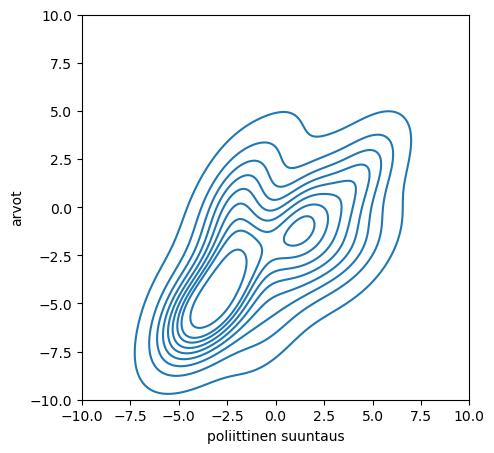
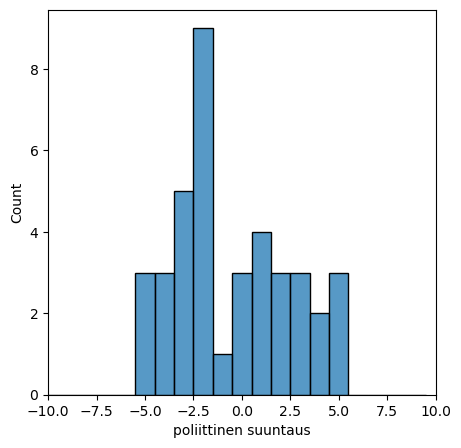
HS fix 3

Changed region(s): [[0.0607, 0.0, 1.0, 1.0], [0.0, 0.4062, 0.0607, 0.5]]

diff --git a/_posts/2025-6-30-hs-pääkirjoitukset.md b/_posts/2025-6-30-hs-pääkirjoitukset.md
@@ -9,7 +9,9 @@ tags:
   - arvot
 ---
 
-Helsingin Sanomat perustettiin nuorsuomalaisen Päivälehden jatkajaksi. Se aatemaailma tulee siis porvarillis-liberaalista, sosiaalisia asioita korostaneesta nuorsuomalaisesta liikkeestä.
+Helsingin Sanomat on arvostettu suomalainen instituutio, joka ei ole vain passiivinen asioiden seuraaja, vaan ottaa lehtenä kantaa ajankohtaisiin asioihin. Linjaa esitellään pääkirjoituksissa. Tässä blogissa analysoidaan, mihin kohtaan arvokarttaa pääkirjoitukset sijoittuvat. Tulosten mukaan HS on vahvasti arvoliberaali ja lievästi vasemmistolainen lehti.
+
+Alun perin Helsingin Sanomat perustettiin nuorsuomalaisen Päivälehden jatkajaksi. Se aatemaailma tulee siis porvarillis-liberaalista, sosiaalisia asioita korostaneesta nuorsuomalaisesta liikkeestä.
 
 ![HS:n uutisten poliittisuuden jakauma](/images/HS/jakauma.png)<br>
 _Kuvio 1. HS:n uutisjuttujen poliittisen näkökulman (vaaka-akseli) ja arvojen (pystyakseli) yhteisjakauma._
@@ -20,7 +22,7 @@ _Kuvio 1. HS:n uutisjuttujen poliittisen näkökulman (vaaka-akseli) ja arvojen 
 1 Aineisto
 ===
 
-Helsingin Sanomien linjaa kuvaavat [pääkirjoitukset](https://www.hs.fi/info/art-2000010221266.html):
+Helsingin Sanomat kuvaavaa [pääkirjoitusten](https://www.hs.fi/info/art-2000010221266.html) linjaa:
 
 > Pääkirjoituksissa määritellään lehden kanta eri asioihin, mutta uutistoimituksen työtä pääkirjoitukset eivät määritä. Niiden linjaukset eivät myöskään poista objektiivisuuden tai tasapuolisuuden vaadetta uutissisällöissä.
 
